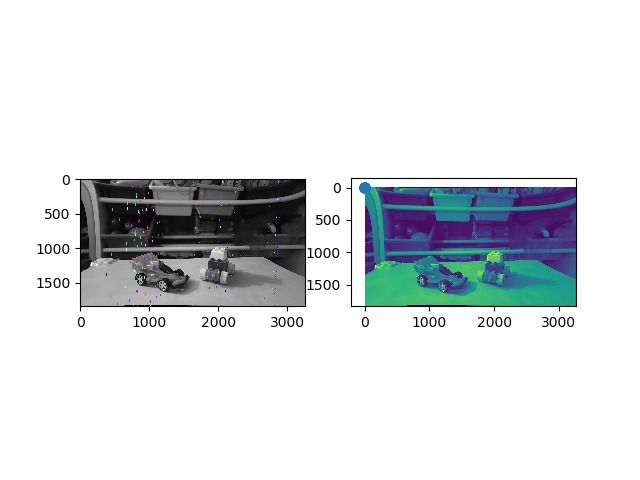
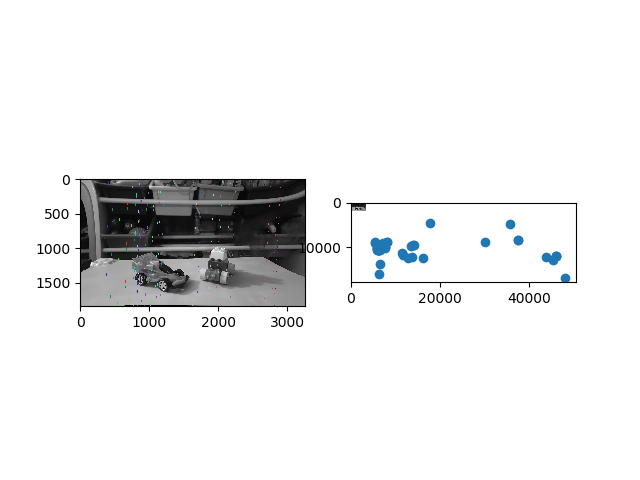
WarpPerspective() in Part4

Changed region(s): [[0.4688, 0.375, 0.9062, 0.6875]]

diff --git a/camera_pose.py b/camera_pose.py
@@ -138,27 +138,60 @@ def relative_camera_pose(img1_, img2_, K, dist):
 
 	points4D = cv.triangulatePoints(P1, P2, pts1, pts2)
 	aug_points3D = points4D/points4D[3]
-	print("\npoints3D:\n",aug_points3D)
+	print("\nAugmented points3D:\n",aug_points3D)
 
-	points3D = aug_points3D[:2]
-	print("\n3dPoints:\n", points3D)
+	min_depth = min(aug_points3D[2])
+	max_depth = max(aug_points3D[2])
+	print("\n\nMin depth:\n", min_depth)
+	print("Max depth:\n\n", max_depth)
+
+	N = (max_depth-min_depth)/20
+	print("N=20:\n", N)
 
 
-	cv.imshow('img1', img1)
+	equispaced_dist = np.linspace(min_depth, max_depth, num=20)
+	print("Equispaced distance:\n", equispaced_dist)
 
-	# Project points
-	plt.scatter(points3D[0], points3D[1])
+	projectPoints = np.dot(P1, aug_points3D)
+	print("projectPoints:\n", projectPoints)
 
-	# put a red dot, size 40, at 2 locations:
-	#plt.scatter(x=[30, 40], y=[50, 60], c='r', s=40)
-	plt.savefig("tryProj.png")
-	plt.show()
+	points2D = projectPoints[:2]
+	print("\n2DPoints:\n", points2D)
 	
 	# Calculate the depth of the matching points:
 	# http://answers.opencv.org/question/117141/triangulate-3d-points-from-a-stereo-camera-and-chessboard/
 	# https://stackoverflow.com/questions/22334023/how-to-calculate-3d-object-points-from-2d-image-points-using-stereo-triangulatio/22335825
 	
+	#for i in range(0,20):
+	K_inv = np.linalg.inv(K) 
+	nd_vector = np.array([0,0,-1,equispaced_dist[15]])
 	
+	P1_aug = np.vstack((P1,nd_vector))
+	P2_aug = np.vstack((P2,nd_vector))
 	
+	print("P1_aug:\n",P1_aug)
+	print("P2_aug:\n",P2_aug)
+	
+	P2_inv = np.linalg.inv(P2_aug)  
+	print("P2_inv:\n", P2_inv)
+
+	P1P2_inv = np.dot(P1_aug, P2_inv)
+	print("P1P2_inv:\n",P1P2_inv)
+
+	R =  P1P2_inv[:3,:3]
+	print("R:\n", R)
+	KR = np.dot(K,R)
+	homography = np.dot(KR,K_inv)
+	#print("\nHomography" + str(i) + ":")
+	print("\n\nhomography:\n",homography)
+
+
+	#h,w = img2.shape
+
+	output_warp = cv.warpPerspective(img2, homography, None)
+	cv.imwrite('Warped_output.jpg',output_warp)
+
+
+
 
 	return R1, R2, t
